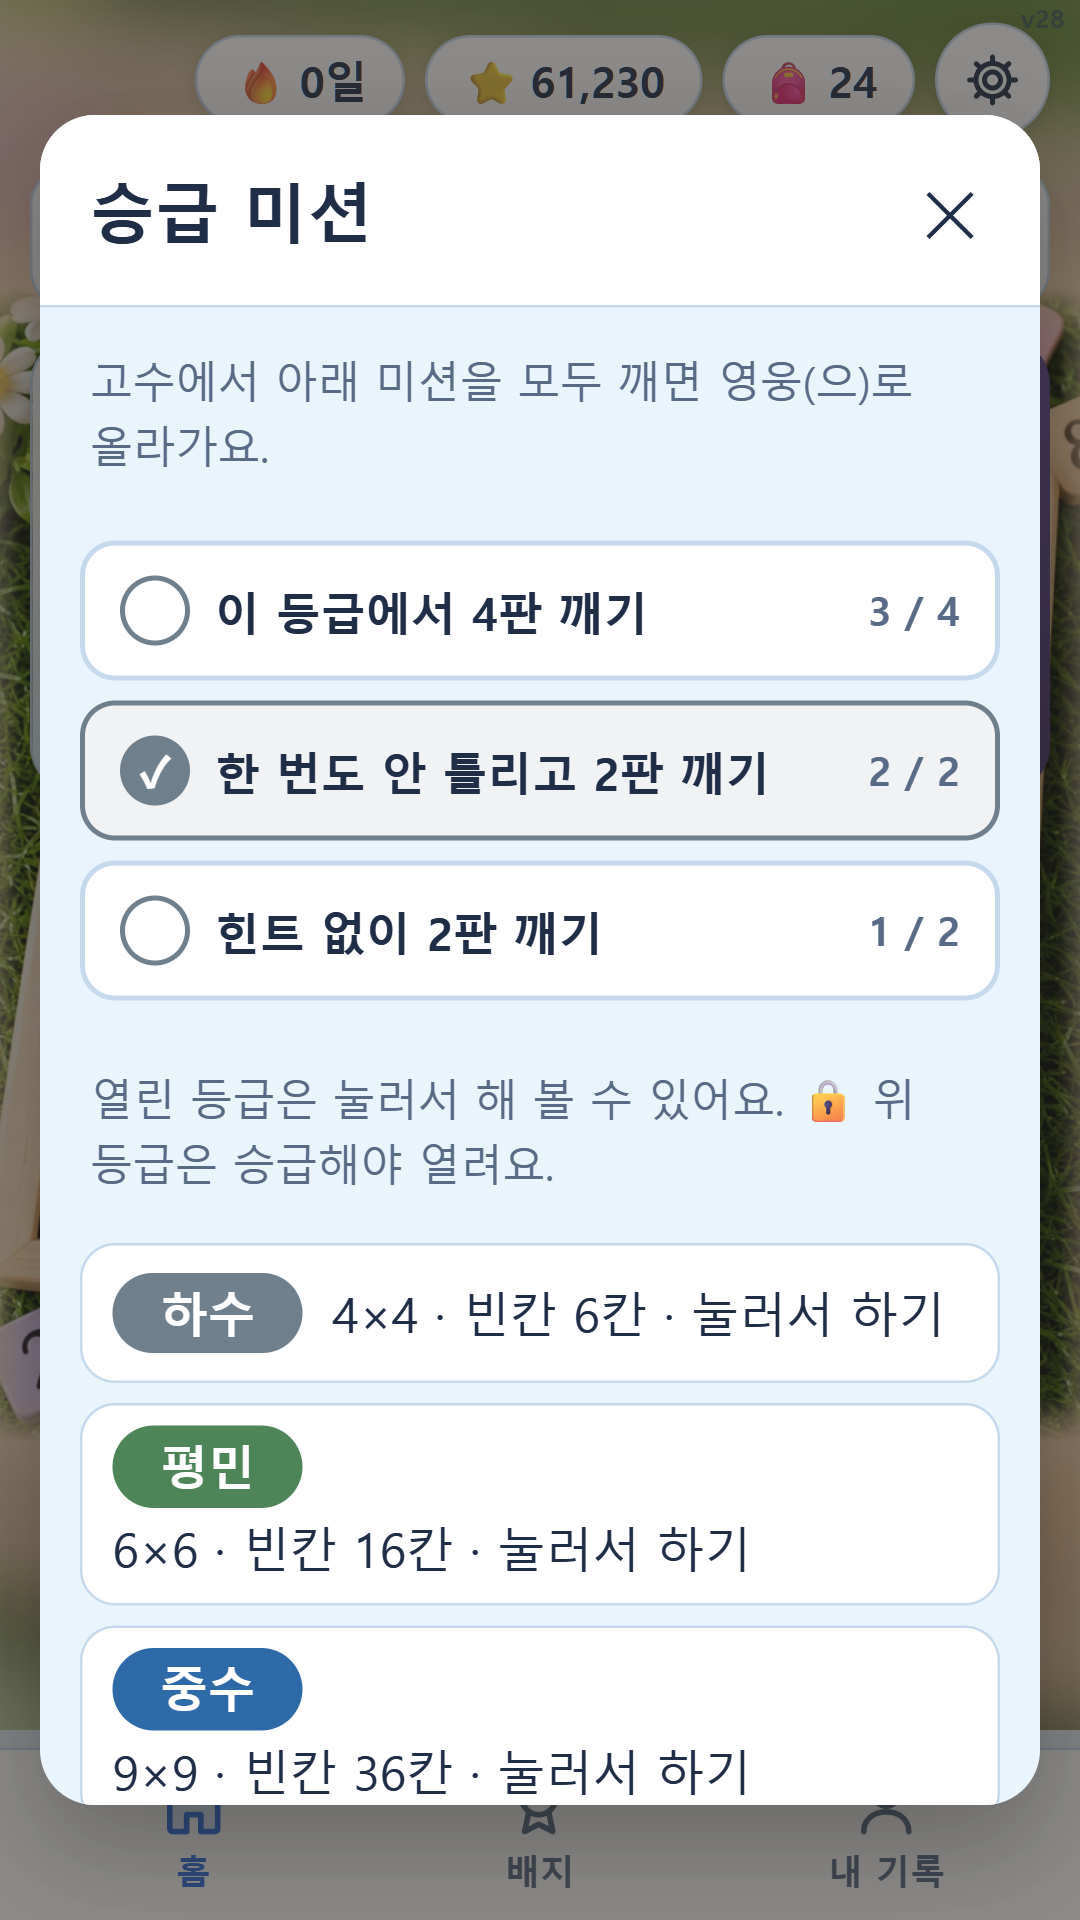
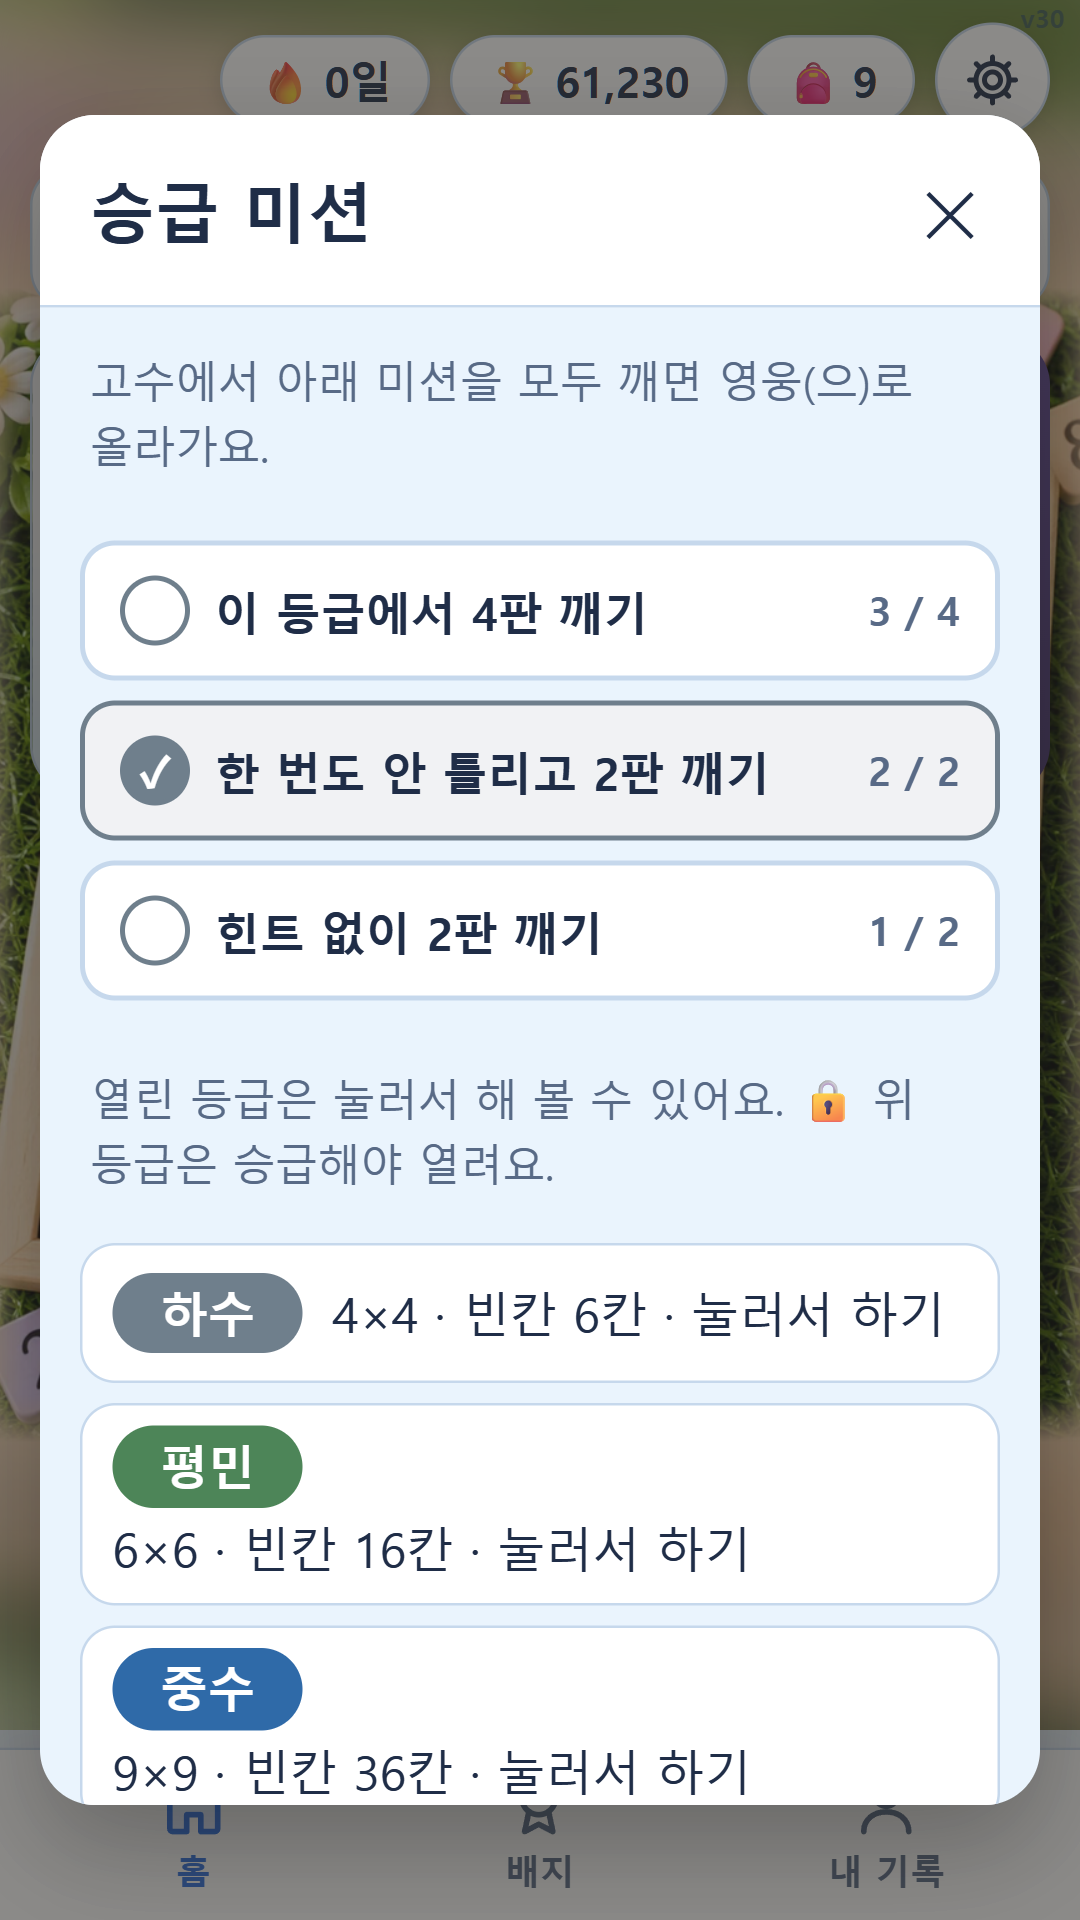
상점 끄기 설정(SHOP_ENABLED=false) : 별 칸 · 사기 단추 · 별 충전 창을 숨기고, 아이템은 시작 선물과 출석 선물로만

Changed region(s): [[0.1833, 0.0, 0.825, 0.0625]]

diff --git a/index.html b/index.html
@@ -13,12 +13,12 @@
   <meta name="mobile-web-app-capable" content="yes">
   <meta name="apple-mobile-web-app-capable" content="yes">
   <meta name="apple-mobile-web-app-title" content="스도쿠 승급전">
-  <link rel="stylesheet" href="css/style.css?v=30">
-  <link rel="stylesheet" href="css/skins.css?v=30">
-  <link rel="stylesheet" href="css/screens.css?v=30">
-  <link rel="stylesheet" href="css/about.css?v=30">
+  <link rel="stylesheet" href="css/style.css?v=31">
+  <link rel="stylesheet" href="css/skins.css?v=31">
+  <link rel="stylesheet" href="css/screens.css?v=31">
+  <link rel="stylesheet" href="css/about.css?v=31">
   <link rel="preload" as="image" href="img/gate.webp">
-  <link rel="stylesheet" href="css/dark.css?v=30">
+  <link rel="stylesheet" href="css/dark.css?v=31">
   <!-- 다크 모드와 스킨을 화면이 뜨기 전에 먼저 입힙니다 (밝은 화면이 번쩍이지 않게) -->
   <script>
     (function () {
@@ -701,12 +701,12 @@
   <div class="overlay" id="sheet-items" hidden>
     <div class="sheet-box" role="dialog" aria-modal="true" aria-labelledby="items-title">
       <div class="sheet-head">
-        <h2 id="items-title">아이템 · 상점</h2>
+        <h2 id="items-title">내 아이템</h2>
         <button type="button" class="sheet-close" data-close aria-label="닫기">✕</button>
       </div>
       <div class="sheet-body">
         <!-- 내 별과 충전 단추 (js/shop.js) -->
-        <div class="star-bar">
+        <div class="star-bar" id="items-starbar">
           <span class="star-have">⭐ <b id="items-stars">0</b> <small>내 별</small></span>
           <button type="button" class="star-charge" data-open="stars">별 충전</button>
         </div>
@@ -763,19 +763,19 @@
 
   <canvas id="confetti" hidden></canvas>
 
-  <script src="js/config.js?v=30"></script>
-  <script src="js/engine.js?v=30"></script>
-  <script src="js/game.js?v=30"></script>
-  <script src="js/progress.js?v=30"></script>
-  <script src="js/settings.js?v=30"></script>
-  <script src="js/skins.js?v=30"></script>
-  <script src="js/sound.js?v=30"></script>
-  <script src="js/effects.js?v=30"></script>
-  <script src="js/badges.js?v=30"></script>
-  <script src="js/shop.js?v=30"></script>
-  <script src="js/account.js?v=30"></script>
-  <script src="js/tutorial.js?v=30"></script>
-  <script src="js/hero.js?v=30"></script>
-  <script src="js/ui.js?v=30"></script>
+  <script src="js/config.js?v=31"></script>
+  <script src="js/engine.js?v=31"></script>
+  <script src="js/game.js?v=31"></script>
+  <script src="js/progress.js?v=31"></script>
+  <script src="js/settings.js?v=31"></script>
+  <script src="js/skins.js?v=31"></script>
+  <script src="js/sound.js?v=31"></script>
+  <script src="js/effects.js?v=31"></script>
+  <script src="js/badges.js?v=31"></script>
+  <script src="js/shop.js?v=31"></script>
+  <script src="js/account.js?v=31"></script>
+  <script src="js/tutorial.js?v=31"></script>
+  <script src="js/hero.js?v=31"></script>
+  <script src="js/ui.js?v=31"></script>
 </body>
 </html>

diff --git a/js/ui.js b/js/ui.js
@@ -190,6 +190,7 @@
     return sheetOpen() || !$('modal').hidden || !$('result').hidden || !$('promo').hidden || !$('attend').hidden || !$('login-ask').hidden || S.Tutorial.isOpen();
   }
   function openSheet(name) {
+    if (name === 'stars' && !C.SHOP_ENABLED) return; // 상점을 껐으면 별 충전 창도 열지 않음
     closeSheets();
     if (name === 'settings') renderSettings();
     if (name === 'rules') renderRules();
@@ -258,6 +259,7 @@
     $('home-score').querySelector('b').textContent = formatScore(data.totalScore);
     $('home-bag').querySelector('b').textContent = Progress.itemTotal(data);
     $('home-stars').querySelector('b').textContent = formatScore(Progress.stars(data));
+    $('home-stars').hidden = !C.SHOP_ENABLED;
     renderAttendBar(today);
 
     // 오늘의 퍼즐 카드
@@ -1587,7 +1589,7 @@
         row.appendChild(tag);
       }
       // 별로 사기 (값이 정해진 아이템만)
-      var cost = S.Shop.price(it.id);
+      var cost = C.SHOP_ENABLED ? S.Shop.price(it.id) : 0;
       if (cost) {
         var buy = document.createElement('button');
         buy.type = 'button';
@@ -1616,13 +1618,17 @@
       box.appendChild(row);
     });
     $('items-stars').textContent = formatScore(Progress.stars(data));
+    $('items-starbar').hidden = !C.SHOP_ENABLED;
+    $('items-title').textContent = C.SHOP_ENABLED ? '아이템 · 상점' : '내 아이템';
+    var shop = C.SHOP_ENABLED;
     $('items-note').textContent = inGame
-      ? '별로 아이템을 살 수 있어요. 출석 체크로도 매일 아이템을 받을 수 있어요.'
-      : '아이템은 게임 화면의 🎒 단추를 눌러 쓸 수 있어요. 별로 사거나, 출석 체크로 매일 받을 수 있어요.';
+      ? (shop ? '별로 아이템을 살 수 있어요. ' : '') + '출석 체크로 매일 아이템을 받을 수 있어요.'
+      : '아이템은 게임 화면의 🎒 단추를 눌러 쓸 수 있어요. ' + (shop ? '별로 사거나, ' : '') + '출석 체크로 매일 받을 수 있어요.';
   }
 
   /* 별로 아이템 한 개 사기 */
   function buyItemPress(id) {
+    if (!C.SHOP_ENABLED) return;
     var it = itemInfo(id);
     var res = S.Shop.buyItem(data, id);
     if (!res.ok) {

diff --git a/js/config.js b/js/config.js
@@ -9,8 +9,8 @@
 
   S.Config = {
     // 화면 오른쪽 위에 작게 보이는 버전 (휴대폰에 새 파일이 들어왔는지 확인용)
-    // 고칠 때마다  python tools/bump_version.py  로 올립니다 (sw.js 의 CACHE, index.html 의 ?v= 도 함께) : sudoku-files-v30 → 'v30'
-    VERSION: 'v30',
+    // 고칠 때마다  python tools/bump_version.py  로 올립니다 (sw.js 의 CACHE, index.html 의 ?v= 도 함께) : sudoku-files-v31 → 'v31'
+    VERSION: 'v31',
 
     FAILS_TO_DEMOTE: 3, // 연속으로 이만큼 실패하면 강등
     MAX_MISTAKES: 3, // 한 판에서 틀릴 수 있는 횟수
@@ -100,6 +100,9 @@
      *                 price 는 화면에 보여 줄 값입니다. (실제 결제 금액은 Play Console 에서 정함)
      *   START_STARS : 처음 시작할 때 주는 별
      */
+    // 상점 켜기 : false 면 별(⭐) 칸, 아이템 "사기" 단추, 별 충전 창을 모두 숨깁니다.
+    //   (별 판매 = 인앱 결제를 붙인 뒤에 true 로. 아이템은 시작 선물과 출석 선물로만 얻음)
+    SHOP_ENABLED: false,
     ITEM_PRICES: { hint: 30, time: 20, shield: 30, memo: 50, double: 40, magnify: 30, revive: 80, guard: 60 },
     STAR_PACKS: [
       { id: 'stars_100', stars: 100, price: '₩1,200' },

diff --git a/sw.js b/sw.js
@@ -10,7 +10,7 @@
  * 새 파일(그림, js, css)을 추가했으면 아래 FILES 목록에도 한 줄 넣어 주세요.
  * 버전을 올릴 때는  python tools/bump_version.py  를 쓰면 CACHE, 화면 버전, index.html 의 ?v= 가 한 번에 바뀝니다.
  */
-var CACHE = 'sudoku-files-v30';
+var CACHE = 'sudoku-files-v31';
 var FILES = [
   './',
   'index.html',
